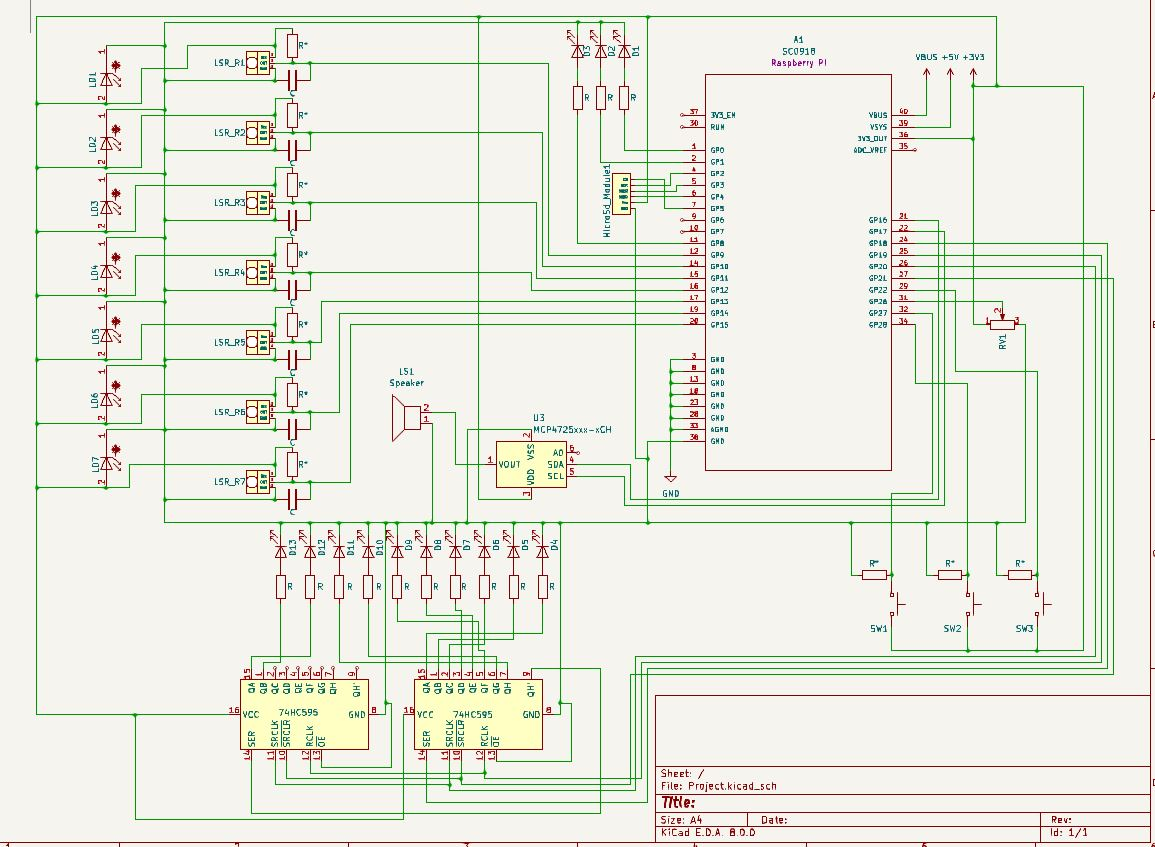
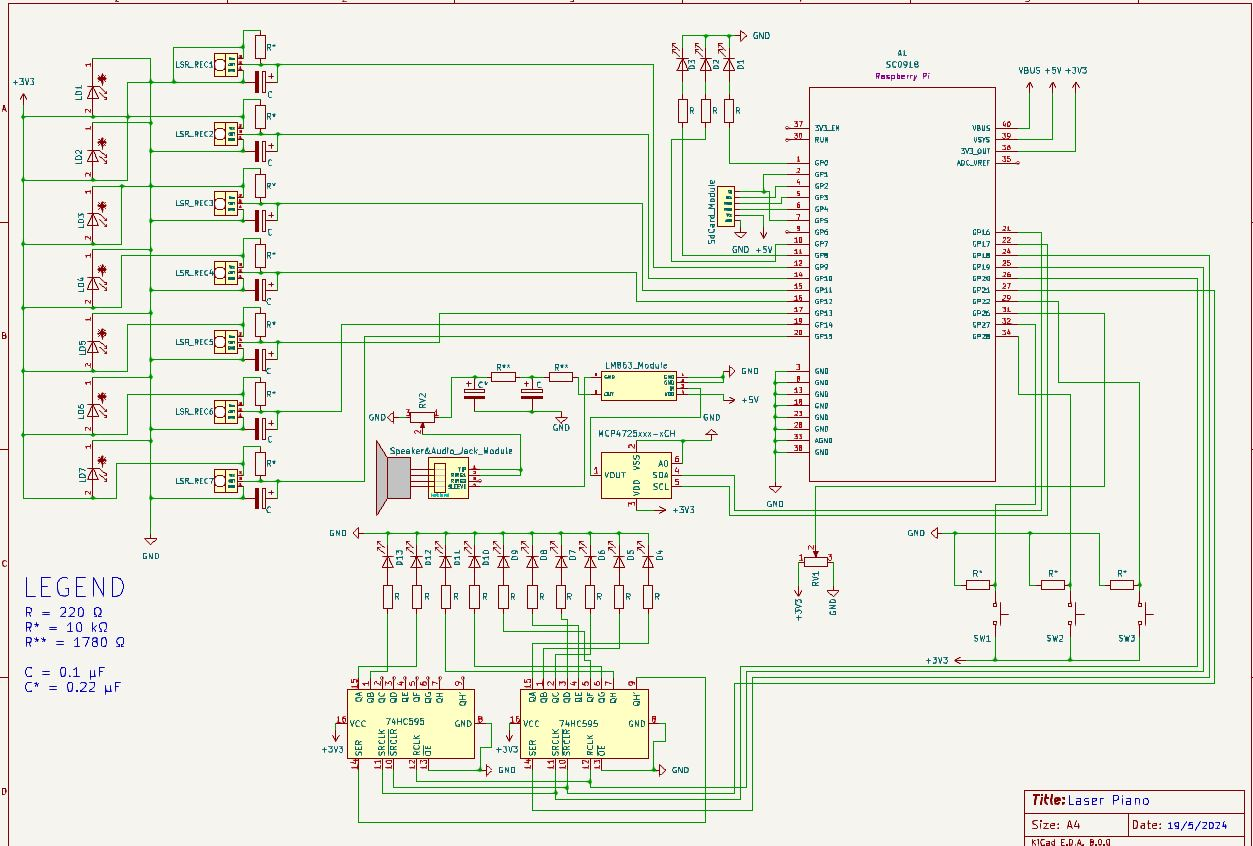
Negrila Rares - Laser Piano (#355)
* Create index.mb

* Update index.mb

* Update index.mb

* Update index.mb

* Add files via upload

* Update your_curs_upb_ro_id.md

* Delete docs/project/2024/rares.negrila/index.mb

* Update your_curs_upb_ro_id.md

* Rename your_curs_upb_ro_id.md to rares.negrila.md

* Update rares.negrila.md

* Update rares.negrila.md

* Update rares.negrila.md

* Rename rares.negrila.md to index.md

* Update index.md

* Update index.md

* Create temp.txt

* Add files via upload

* Delete docs/project/2024/rares.negrila/assets/temp.txt

* Update index.md

* Add files via upload

* Update index.md

* Update index.md

* Update index.md

* Update index.md

* Add files via upload

* Update index.md

* Rename KiCad.JPG to KiCad_before.JPG

* Add files via upload

* Delete docs/project/2024/rares.negrila/assets/KiCad.JPG

* Add files via upload

* Update index.md

* Delete docs/project/2024/rares.negrila/assets/KiCad.JPG

* Add files via upload

* Update index.md

* Update index.md

* Update index.md

* Update index.md

* Add files via upload

* Delete docs/project/2024/rares.negrila/assets/hardware_3.jpeg

* Add files via upload

* Update index.md

* Delete docs/project/2024/rares.negrila/assets/hardware_3.jpeg

* Add files via upload

* Update index.md

* Update index.md

diff --git a/docs/project/2024/rares.negrila/index.md b/docs/project/2024/rares.negrila/index.md
@@ -17,8 +17,8 @@ It uses a potentiometer with leds to adjust and show volume,
 and 7 laser diodes and laser receivers that act as the piano keys.
 
 
-The plan is to take the sound data from a microsd card and give it to a dac that will give the analog output to a speaker.
-It uses an LM386 audio amplifier module to keep the signal clear.
+The plan is to take the sound data from an sd card and give it to a dac that will give the analog output to a audio jack module the is connected to a portable speaker.
+It uses an LM386 audio amplifier module and 2 RC low pass filters to keep the signal clear and to a reasonable level.
 
 
 ## Motivation
@@ -42,27 +42,80 @@ as well as understand the conversion of digital code into analog sound.
 
 ### Week 6 - 12 May
 
+I encountered many problems with SD / microSD cards in embassy-rs.
+
+While the setup initially used matched the Raspberry Pi Pico embedded-hal example from rp-rs using the embedded-sdmmc-rs crate, it did not behave as expected. The SD card itself failed to be read in any way, shape, or form. Even when manually sending CMD0, CMD1, and CMD8 commands, the response was not within the expected parameters.
+
+In the end, I found a solution. I created a blocking::spi::SpiDevice using embassy_embedded_hal. 
+
+For initialization, I had to give the program ownership over a phantom CS pin—a CS pin that could not be used and would no longer need to be used in the case of microSDs.
+
+![code_1](assets/cs.JPG)
+
+I opted for a normal SD card in the end, where I could still connect the second CS pin, given that the SD card module comes with 2 rows of pins.
+
+
 ### Week 7 - 19 May
+
+After getting the SD card reader to work, I encountered my next challenge: data processing and the RAM limitations of the Raspberry Pi Pico.
+
+Since the files themselves did not have too large of a PCM, storing them temporarily was not an issue. However, giving the data to the DAC proved to be a challenge.
+
+For some reason, the while loop I was creating for processing did not accept any awaits or it would panic almost instantly. Additionally, giving the microcontroller too much to work on in too many iterations proved to be impossible.
+
+To address this, I had to cut the files from 16-bit WAV files to 8-bit. This made processing much easier because now I only had to give an empty byte (with the first 4 bits setting the fast write mode of the DAC and the last 4 bits being empty data for the 12-bit interface) and the data bytes taken from the SD card. With this approach, I managed to cut the iterations from approximately 57,600 to about 28,650, and data processing to about 25%.
+
+Despite these optimizations, the processing speed still proves to be insufficient. I see little solution to apply within my current limitations.
+
+The biggest downside of using 8-bit files is that the sound quality took a significant plunge.
+
+Now that I had my sound working, I needed to start working on clearing it up, as it was, at that time, an unintelligible mess.
+
+To improve the sound quality, I switched to a portable speaker rather than the one I used before, and I attached an audio jack module to connect it. This proved to be insufficient, so I employed some RC low-pass filters to make some final touches.
+
+While now there is still some static, it is nowhere near as bad as before. 
+Despite the 8-bit sound quality, the sound can now be differentiated between keys.
+
 
 ### Week 20 - 26 May
 
+To Be Continued - PCB work and final touches + packageing
+
 ## Hardware
 
-Detail in a few words the hardware used.
+Using LEDs as settings indicators, buttons and a stereo potentiometer for octave and volume respectively.
 
-Using leds as settings indicators.
-Buttons and a stereo potentiometer for octave and volume respectively.
-7 Laser diodes placed at an angle in order to continuously shine on the laser receivers.
-A MicroSd card reader with a standard 2GB MicroSd card.
-A Dac for processing the data and a amplifier for keeping the signal at a desireable level.
-The amplifer will connect to the opposite port of the stereo potentiometer.
-And the speaker will be connected to the output of the amplifier.
+Seven laser diodes are placed at an angle to continuously shine on the laser receivers.
+
+An SD card reader is used with a 16GB SD card (the card has to use the W95 FAT32 (LBA) format). 
+
+A DAC is used for processing the data and an amplifier is used to keep the signal at a desirable level.
+
+Two RC low-pass filters are employed, each with 1780 kΩ resistors.
+
+One filter uses a 0.1 µF capacitor, while the other uses a 0.22 µF capacitor.
+
+The amplifier is connected to the opposite port of the stereo potentiometer, and the speaker is connected to the output of the amplifier through an audio jack module.
+
+Full breadboard prototype:
+
+![hardware_on_breadboard](assets/hardware_1.jpeg)
+
+Laser processing:
+
+![hardware_on_breadboard](assets/hardware_2.jpeg)
+
+Analog signal processing:
+
+![hardware_on_breadboard](assets/hardware_3.jpeg)
+
+
 
 ### Schematics
 
 Some of the parts were either created by me as they did not have a publicly available schematic but most of the more detailed schemas for the modules used can be found in their datasheet.
 
-In this case I couldn't find the Laser Receiver Symbol and the MicroSd card reader module. 
+In this case I couldn't find the Laser Receiver Symbol, the SD card reader module, the LM386 module and the audio jack module with the portable speaker. 
 
 ![schematics](assets/KiCad.JPG)
 
@@ -85,16 +138,19 @@ The format is
 | 13 * Led | This is used for displaying current settings | [-] |
 | 13 * 220 Ohm R | This is used to make sure the leds don't get fried | [-] |
 | 10 * 10 kOhm R | This is used to crate pull up and pull down resistors | [-] |
-| 7 * 0.1 uF Capacitor | This is used to debounce the signal from the laser receivers | [-] |
+| 3 * 1780 Ohm R | This is used for the RC low pass filters | [-] |
+| 7 * 0.1 uF Capacitor | This is used to debounce the signal from the laser receivers and for one of the low pass filters | [-] |
+| 1 * 0.22 uF Capacitor | This is used for one of the low pass filters | [-] |
 | lots * cables | This is used to connect diffrent things on the breadboard/prototype pcb | [-] |
-| 10k Potentiometer | This is used for volume input | [2 RON](https://www.optimusdigital.ro/en/potentiometers/12360-10k-wh148-variable-resistor-without-washer-and-nut.html?search_query=10k+Mono+Potentiometer&results=3) |
+| 10k Stereo Potentiometer | This is used for volume input | [2 RON](https://www.optimusdigital.ro/en/potentiometers/1886-10k-stereo-potentiometer.html) |
 | 2 * [Shift Register](https://www.diodes.com/assets/Datasheets/74HC595.pdf) | This is used for the output of the volume setting | [2 RON](https://www.optimusdigital.ro/en/others/2448-registru-de-deplasare-74hc595-dip-16.html) |
 | Laser Diode | This is used to generate a laser | [2.5 RON](https://ardushop.ro/ro/electronica/262-modul-dioda-laser-rou-5mw.html) |
 | 7 * [ISO203](https://forum.arduino.cc/t/documents-about-laser-sensor-ds18b20/1090450/5) | This is used to monitor for interference in the path of the laser | [6.5 RON](https://www.optimusdigital.ro/en/others/3289-laser-diode-receiver.html) |
-| Catalex MicroSd card slot | This is used to read the data from a microsd | [4.4 RON](https://www.optimusdigital.ro/en/memories/1516-microsd-card-slot-module.html) |
+| SD card reader module | This is used to read the data from an SD card | [6 RON](https://www.optimusdigital.ro/en/others/98-sd-card-reader.html?search_query=sd+card&results=530) |
 | [DAC MCP4725](https://ww1.microchip.com/downloads/en/devicedoc/22039d.pdf) | This is used to transfrom the binary from the audio file data into an analog singal for the speaker | [25 RON](https://www.optimusdigital.ro/en/others/1327-dac-mcp4725-module-with-i2c-interface.html?search_query=dac&results=62) |
-| Speaker | This is used to create a sound based on the analog input given by the system | [4.5 RON](https://ardushop.ro/en/modules/1550-difuzor-1w-8ohm.html) |
+| Portable Speaker | This is used to receive the analog signal through an audio jack module and create an appropriate sound | [-] |
 | [AMP LM386](https://www.ti.com/lit/ds/symlink/lm386.pdf) | This is used amplify the analog singal | [6.5 RON](https://ardushop.ro/ro/electronica/241-modul-amplificator-audio-lm386.html) |
+| Audio Jack Module | This is used amplify the analog singal | [5 RON](https://www.optimusdigital.ro/en/connectors/752-modul-jack-audio-stereo-de-35-mm.html?search_query=audio+jack+module&results=19) |
 
 
 
@@ -102,11 +158,10 @@ The format is
 
 | Library | Description | Usage |
 |---------|-------------|-------|
-| [MicroSd Crate](https://github.com/rust-embedded-community/embedded-sdmmc-rs) | Crate for the Catalex MicroSd card slot | Used for reading pcm from wav files |
+| [SD card Crate](https://github.com/rust-embedded-community/embedded-sdmmc-rs) | Crate for the SD card reader | Used for reading pcm from wav files |
 | [MCP4725 Crate](https://github.com/mendelt/mcp4725) | Crate for the MCP4725 DAC | Used to send the data received from the microsd card to the digital to analog converter |
 | [Framework used in project](https://github.com/embassy-rs/embassy)| Rust framework for embedded programming | Used to program the behaviour of the raspberry pi pico and used to simplify certain concepts of embedded programming |
 | [Log](https://docs.rs/log/latest/log/)| Rust Crate for data displaying | Used to display data throught the usb in the terminal of the computer when interacting with the device as a manufacturer |
-
 
 
 
